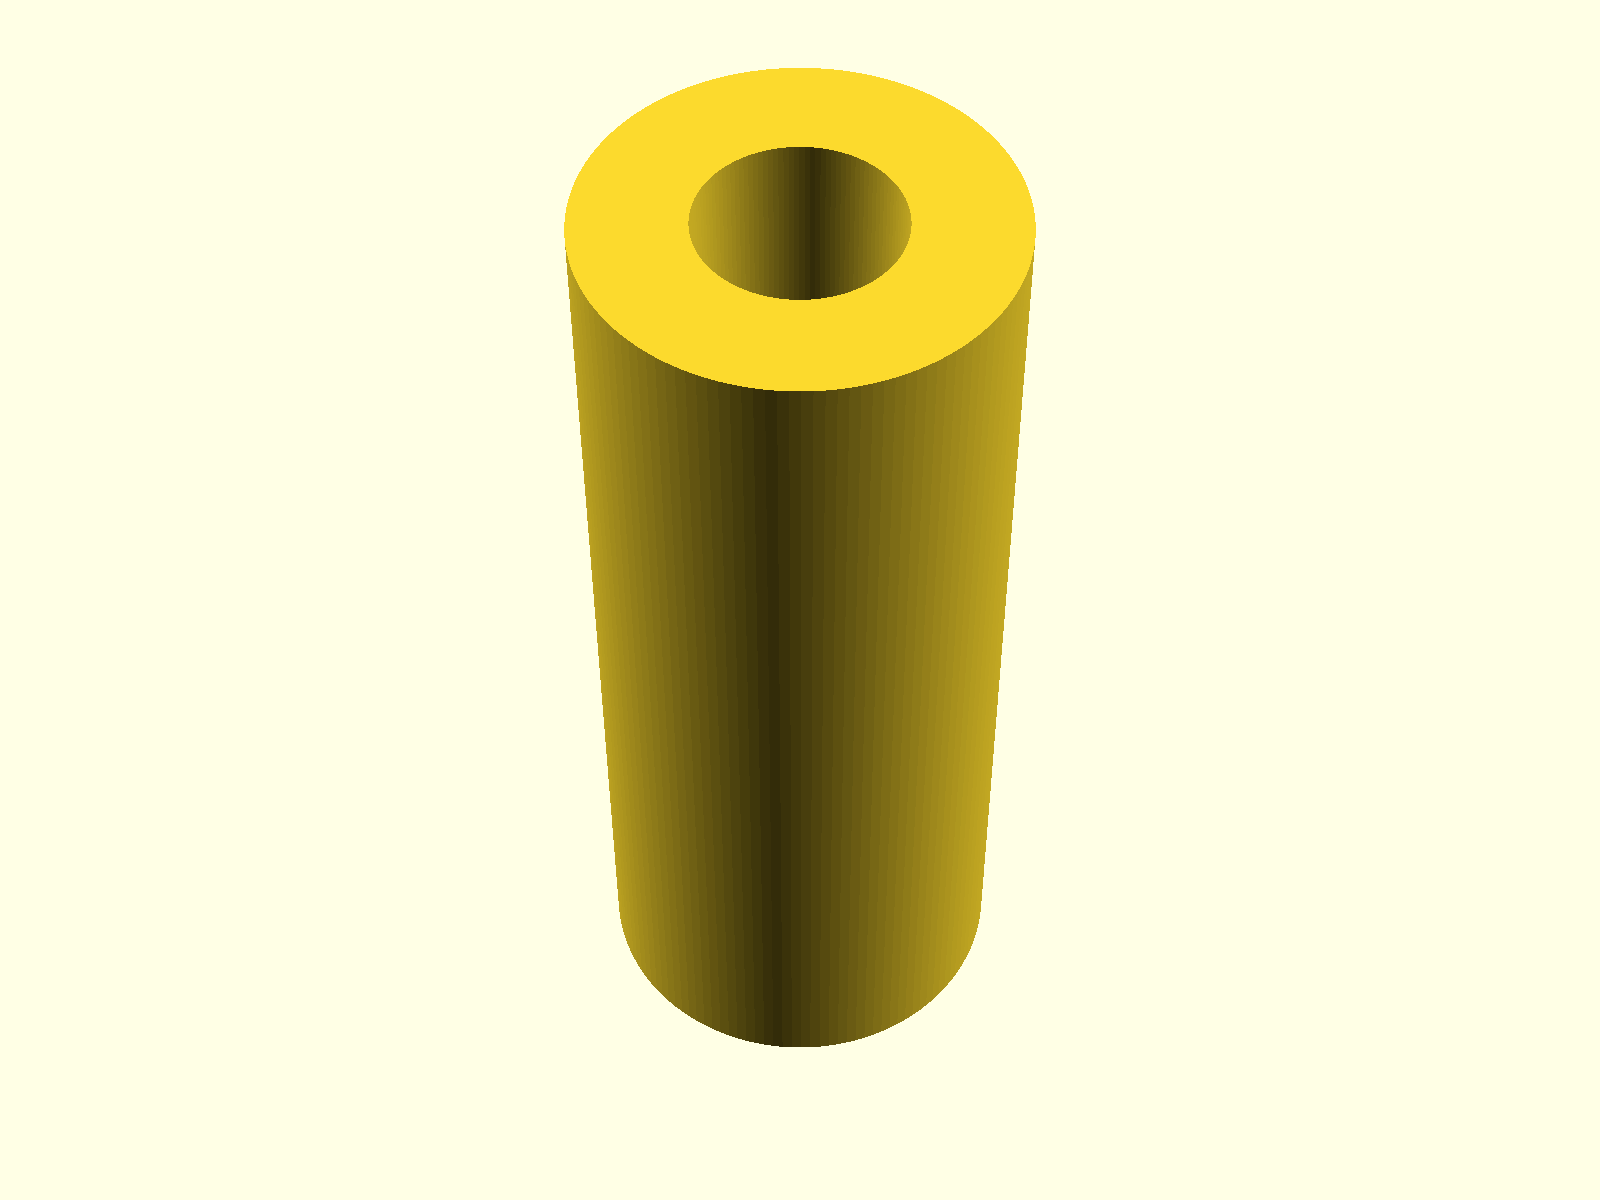
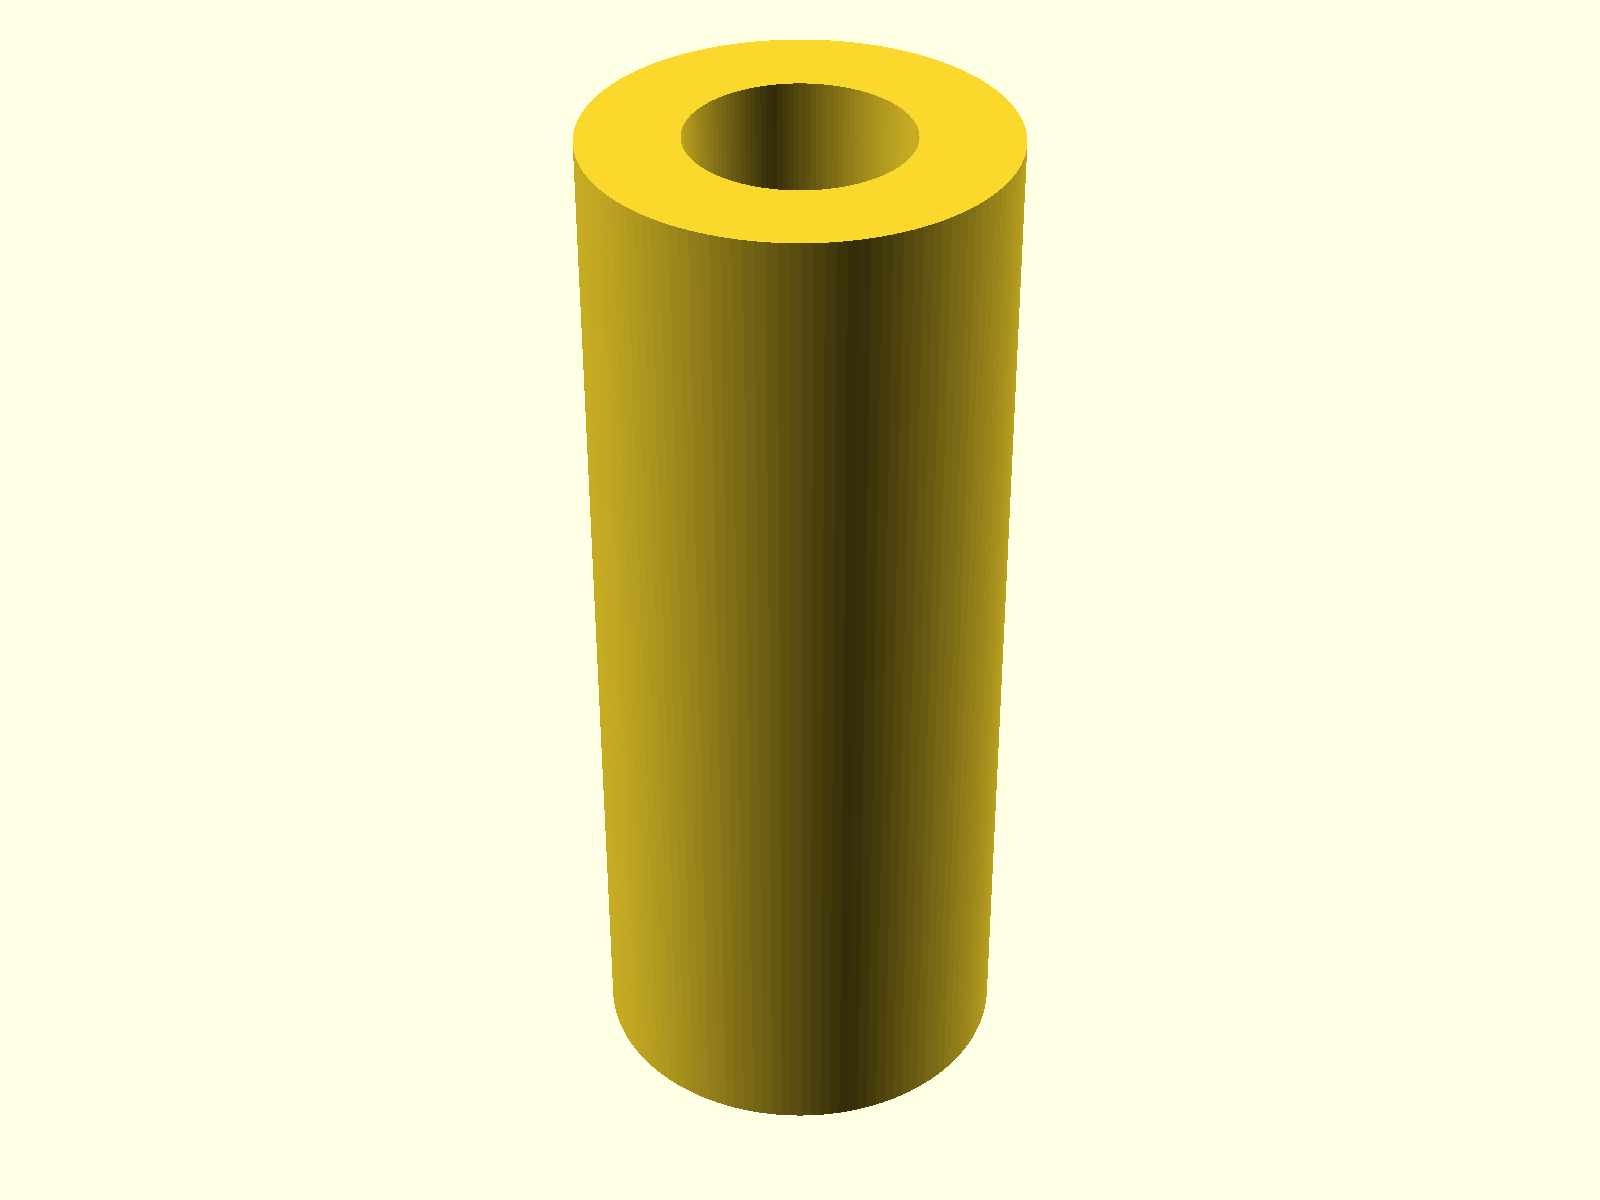
Update Korvet button fit and side lid dimensions

Changed region(s): [[0.3438, 0.0308, 0.6562, 0.9558]]

diff --git a/models/pk8010-korvet/pk8010-korvet-side-lid/README.md b/models/pk8010-korvet/pk8010-korvet-side-lid/README.md
@@ -5,32 +5,32 @@ Stepped rectangular lid with a button through-hole, modeled from supplied dimens
 | Dimension | Value |
 | --- | ---: |
 | Base | 154 × 26 mm |
-| Base thickness | 1.6 mm |
+| Base thickness | 2.4 mm |
 | Centered upper rectangle | 150 × 22 mm |
 | Upper height above base | 3 mm |
-| Total height | 4.6 mm |
+| Total height | 5.4 mm |
 | Ledge on each side | 2 mm |
 | Button through-hole diameter | 10 mm |
-| Hole center from right / bottom base edges | 23 / 9 mm |
+| Hole center from right / bottom base edges | 23 / 7 mm |
 | Decorative groove center from bottom base edge | 10 mm |
 | Groove width / depth from top surface | 2 / 1.2 mm |
 | Right / left groove length | 7 / 115 mm |
-| Finger recess width / upper arc ellipse height | 25 / 17 mm |
+| Finger recess width / upper arc circle diameter | 25 / 25 mm |
 | Recess depth at hole rim | 1.6 mm |
 
 In top view, with the origin at the base's bottom-left corner, the hole
-center is at X = 131 mm, Y = 9 mm. It passes through the full 4.6 mm thickness.
+center is at X = 131 mm, Y = 7 mm. It passes through the full 5.4 mm thickness.
 
-The finger recess has the upper half of a 25 × 17 mm ellipse centered on
+The finger recess has the upper half of a 25 mm diameter circle centered on
 the hole, with straight sides descending from its widest points to the
 bottom edge. It slopes down to the hole rim and a 10 mm-wide central
 channel extending toward the bottom, both 1.6 mm below the top surface.
 The recess opens across its full 25 mm width at the raised section's bottom
-edge. Its uppermost point is Y = 17.5 mm. The lower base ledge remains intact.
+edge. Its uppermost point is Y = 19.5 mm. The lower base ledge remains intact.
 
 Both decorative groove segments run horizontally at Y = 10 mm and cut only
-the raised section, from Z = 4.6 down to Z = 3.4 mm. Their centerline is
-1 mm above the hole center. The right segment runs
+the raised section, from Z = 5.4 down to Z = 4.2 mm. Their centerline is
+3 mm above the hole center. The right segment runs
 inward from the raised section's right edge (X = 152) to X = 145 mm,
 leaving a 9 mm horizontal gap to the hole's rightmost point. The left segment
 runs 115 mm inward from the raised section's left edge (X = 2) to X = 117 mm,

diff --git a/models/pk8010-korvet/README.md b/models/pk8010-korvet/README.md
@@ -5,8 +5,8 @@ the ПК8010 Корвет.
 
 | Part | Dimensions and features | Printable STL |
 | --- | --- | --- |
-| [Button](pk8010-korvet-button/) | Ø7.6 × 19 mm; Ø3.6 mm blind bore, 14 mm deep | [Button STL](pk8010-korvet-button/pk8010-korvet-button.stl) |
-| [Side lid](pk8010-korvet-side-lid/) | 154 × 26 mm base, 4.6 mm total height; Ø10 mm button hole, decorative grooves, finger recess opening to bottom edge | [Lid STL](pk8010-korvet-side-lid/pk8010-korvet-side-lid.stl) |
+| [Button](pk8010-korvet-button/) | Ø7.6 × 19 mm; Ø4 mm blind bore, 14 mm deep | [Button STL](pk8010-korvet-button/pk8010-korvet-button.stl) |
+| [Side lid](pk8010-korvet-side-lid/) | 154 × 26 mm base, 5.4 mm total height; Ø10 mm button hole, decorative grooves, finger recess opening to bottom edge | [Lid STL](pk8010-korvet-side-lid/pk8010-korvet-side-lid.stl) |
 
 Each part directory contains editable `model.scad`, printing notes, and a
 preview. The lid's left groove is 115 mm long and its right groove is 7 mm;

diff --git a/models/pk8010-korvet/pk8010-korvet-button/README.md b/models/pk8010-korvet/pk8010-korvet-button/README.md
@@ -7,8 +7,8 @@ from supplied measurements.
 | --- | ---: |
 | Outer diameter | 7.6 mm |
 | Overall length | 19 mm |
-| Wall thickness | 2 mm |
-| Bore diameter | 3.6 mm |
+| Wall thickness | 1.8 mm |
+| Bore diameter | 4 mm |
 | Blind bore depth | 14 mm |
 | Closed end thickness | 5 mm |
 
